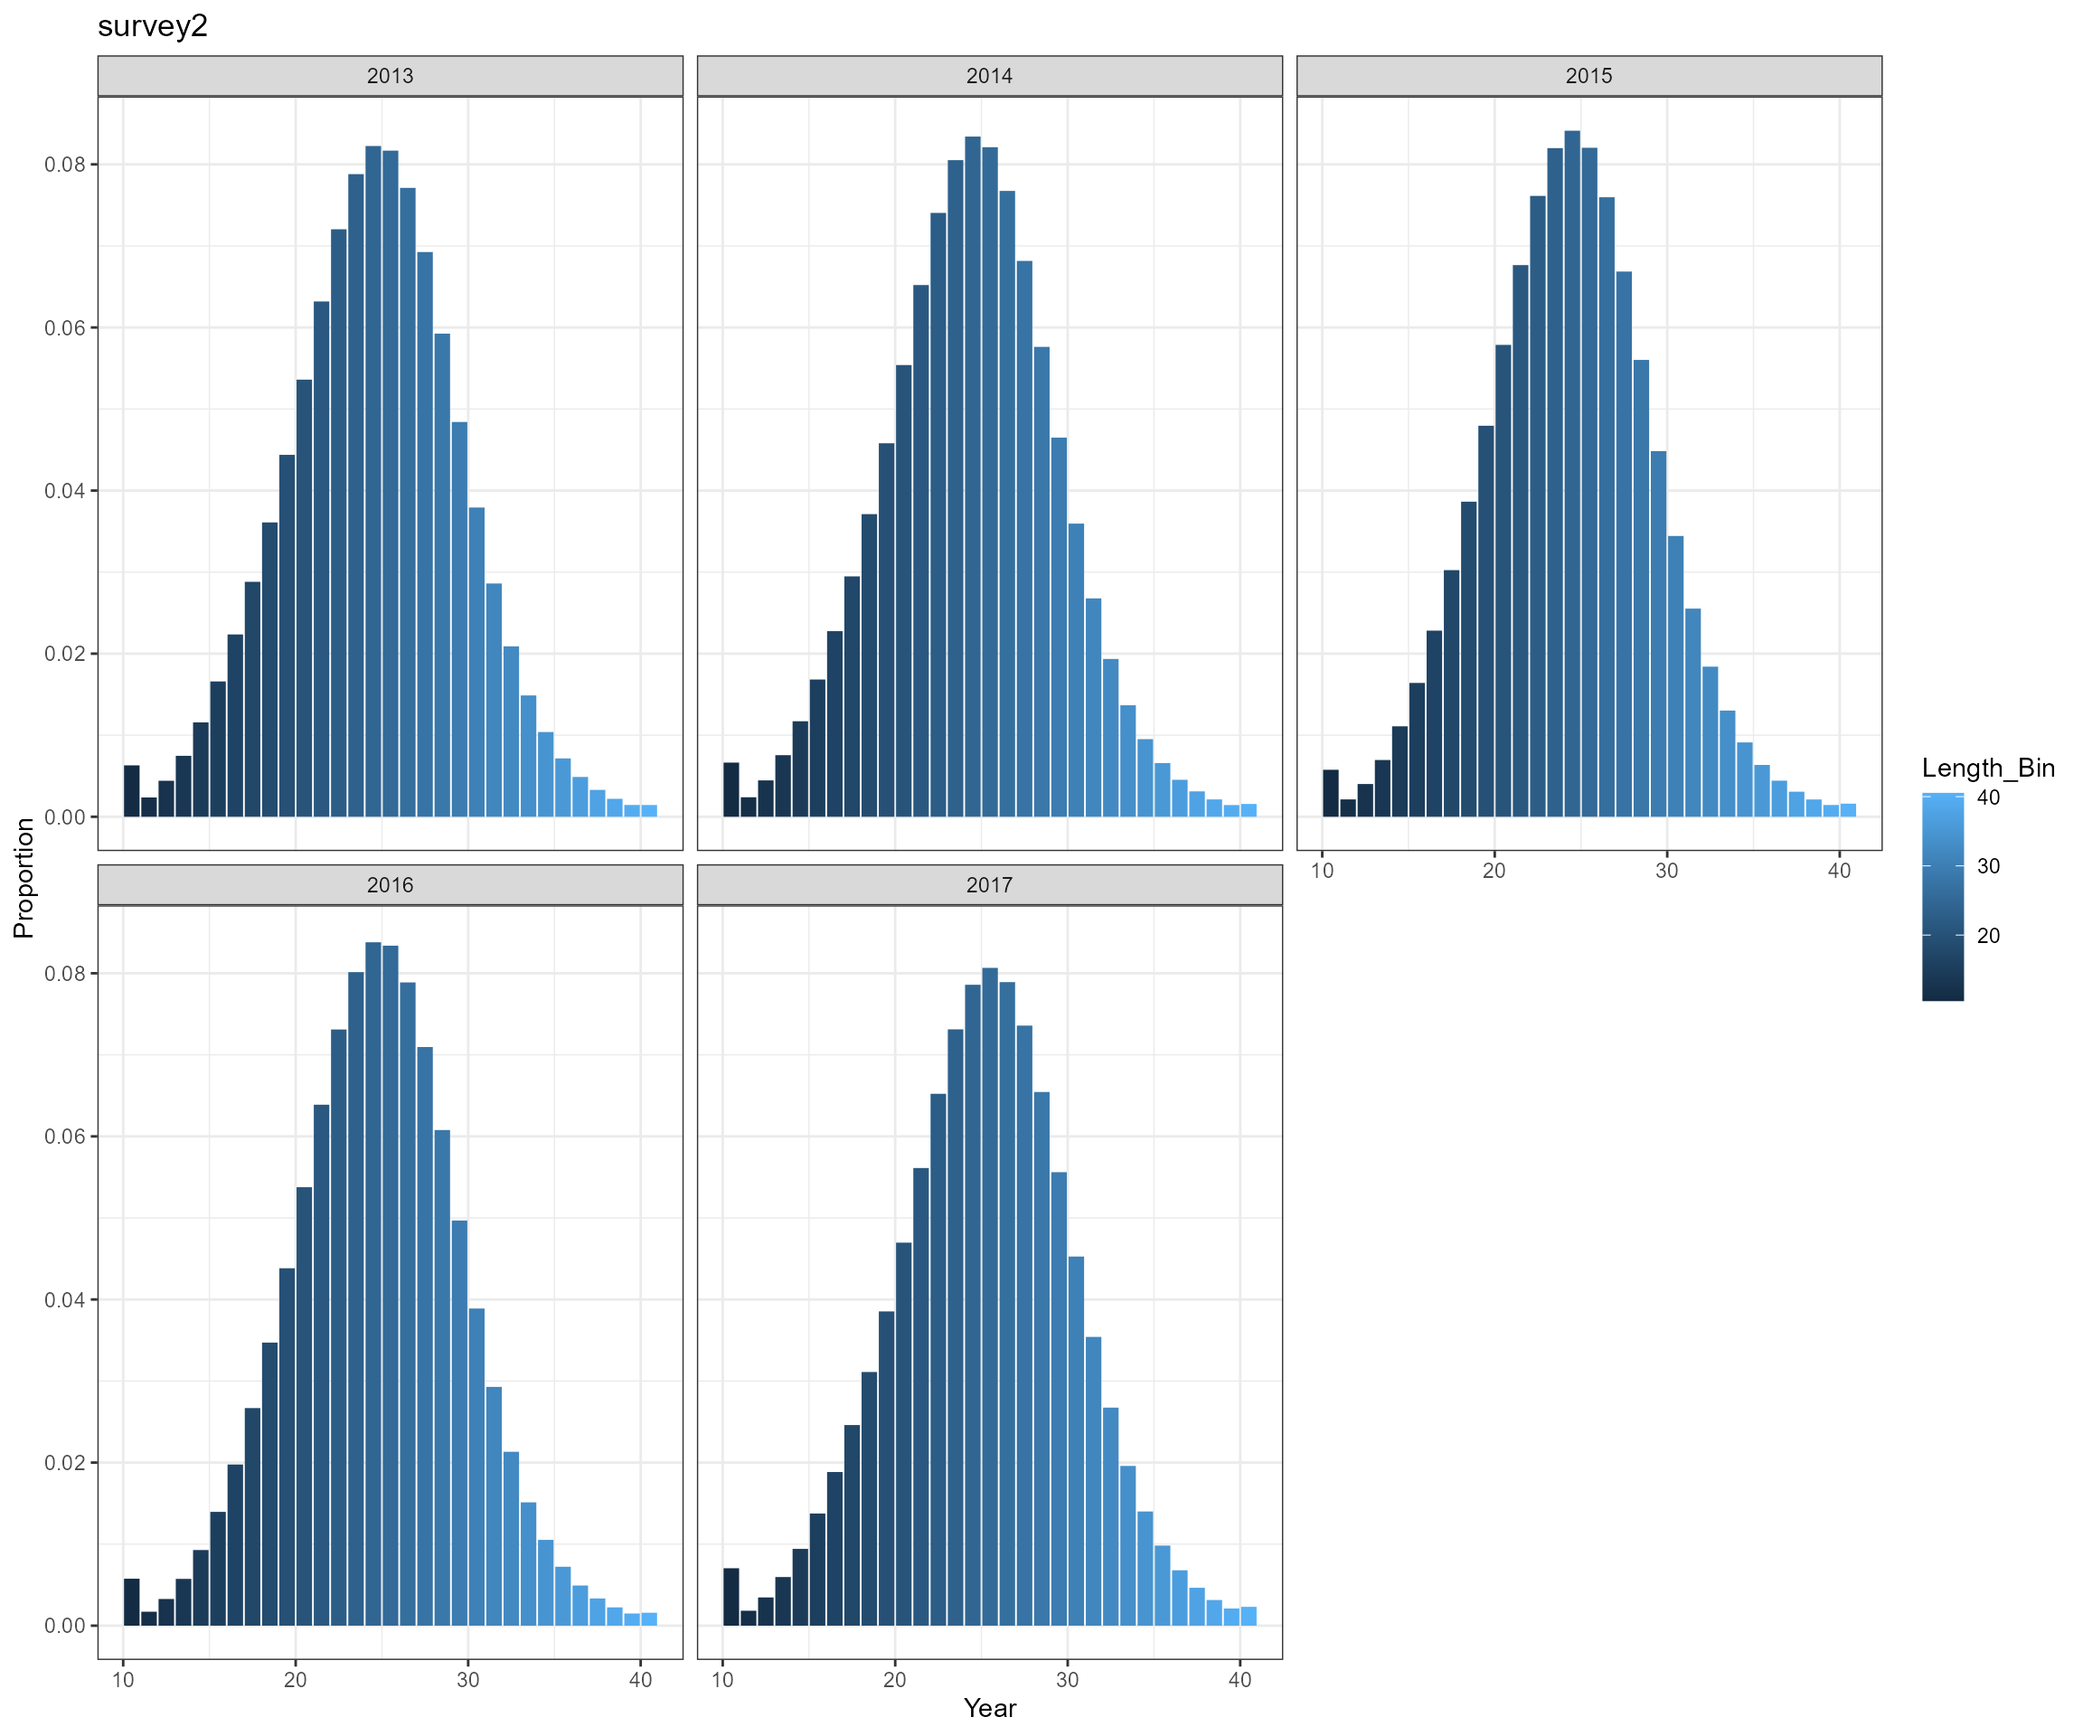
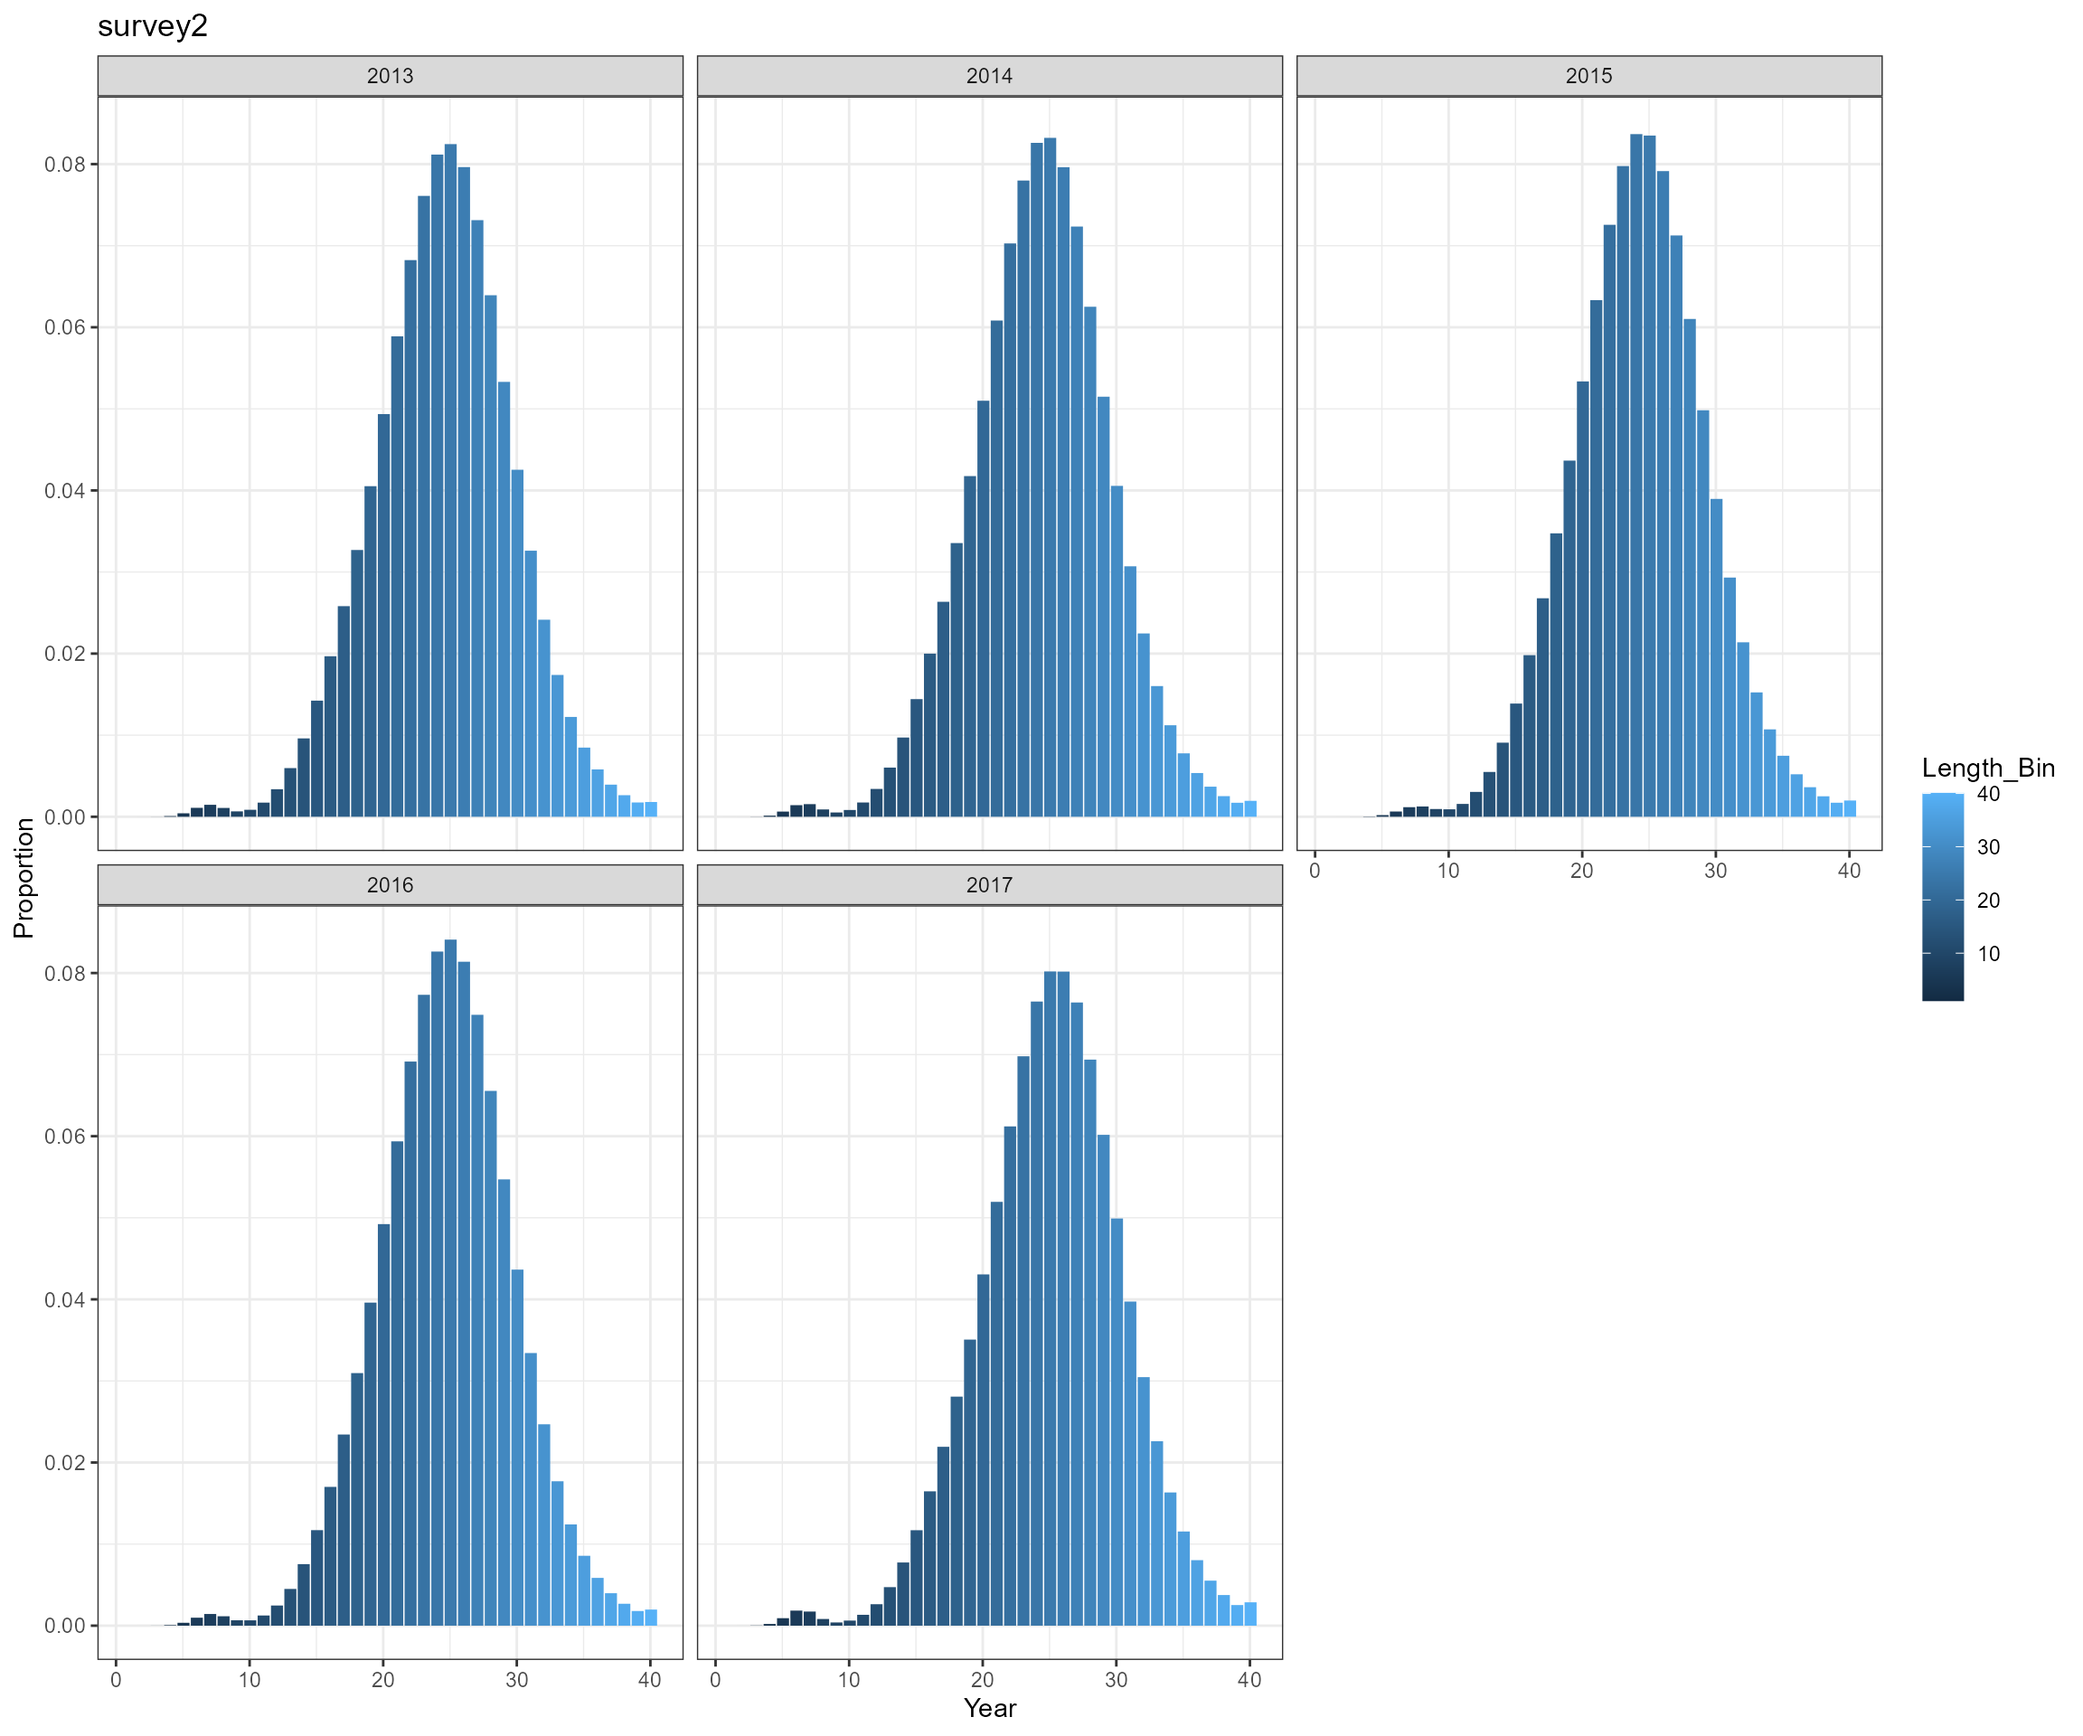
docs: update htmls

diff --git a/docs/articles/05_Stock_assessment_data_simulation.html b/docs/articles/05_Stock_assessment_data_simulation.html
@@ -328,8 +328,8 @@
 <span class="op">}</span>
 
 <span class="co"># set up age-length population structure</span>
-<span class="va">length_bin</span> <span class="op">&lt;-</span> <span class="fu"><a href="https://rdrr.io/r/base/seq.html" class="external-link">seq</a></span><span class="op">(</span><span class="fl">100</span>, <span class="fl">400</span>, <span class="fl">10</span><span class="op">)</span><span class="op">/</span><span class="fl">10</span> <span class="co"># in cm</span>
-<span class="va">mid_length_bin</span> <span class="op">&lt;-</span> <span class="fu"><a href="https://rdrr.io/r/base/seq.html" class="external-link">seq</a></span><span class="op">(</span><span class="fl">105</span>, <span class="fl">405</span>, <span class="fl">10</span><span class="op">)</span><span class="op">/</span><span class="fl">10</span> <span class="co"># in cm</span>
+<span class="va">length_bin</span> <span class="op">&lt;-</span> <span class="fu"><a href="https://rdrr.io/r/base/seq.html" class="external-link">seq</a></span><span class="op">(</span><span class="fl">10.0</span>, <span class="fl">400</span>, <span class="fl">10</span><span class="op">)</span><span class="op">/</span><span class="fl">10</span> <span class="co"># in cm</span>
+<span class="va">mid_length_bin</span> <span class="op">&lt;-</span> <span class="fu"><a href="https://rdrr.io/r/base/seq.html" class="external-link">seq</a></span><span class="op">(</span><span class="fl">10.5</span>, <span class="fl">405</span>, <span class="fl">10</span><span class="op">)</span><span class="op">/</span><span class="fl">10</span> <span class="co"># in cm</span>
 <span class="va">nbin</span> <span class="op">&lt;-</span> <span class="fu"><a href="https://rdrr.io/r/base/length.html" class="external-link">length</a></span><span class="op">(</span><span class="va">length_bin</span><span class="op">)</span>
 <span class="va">bin_width</span> <span class="op">&lt;-</span> <span class="fl">1</span>
 
